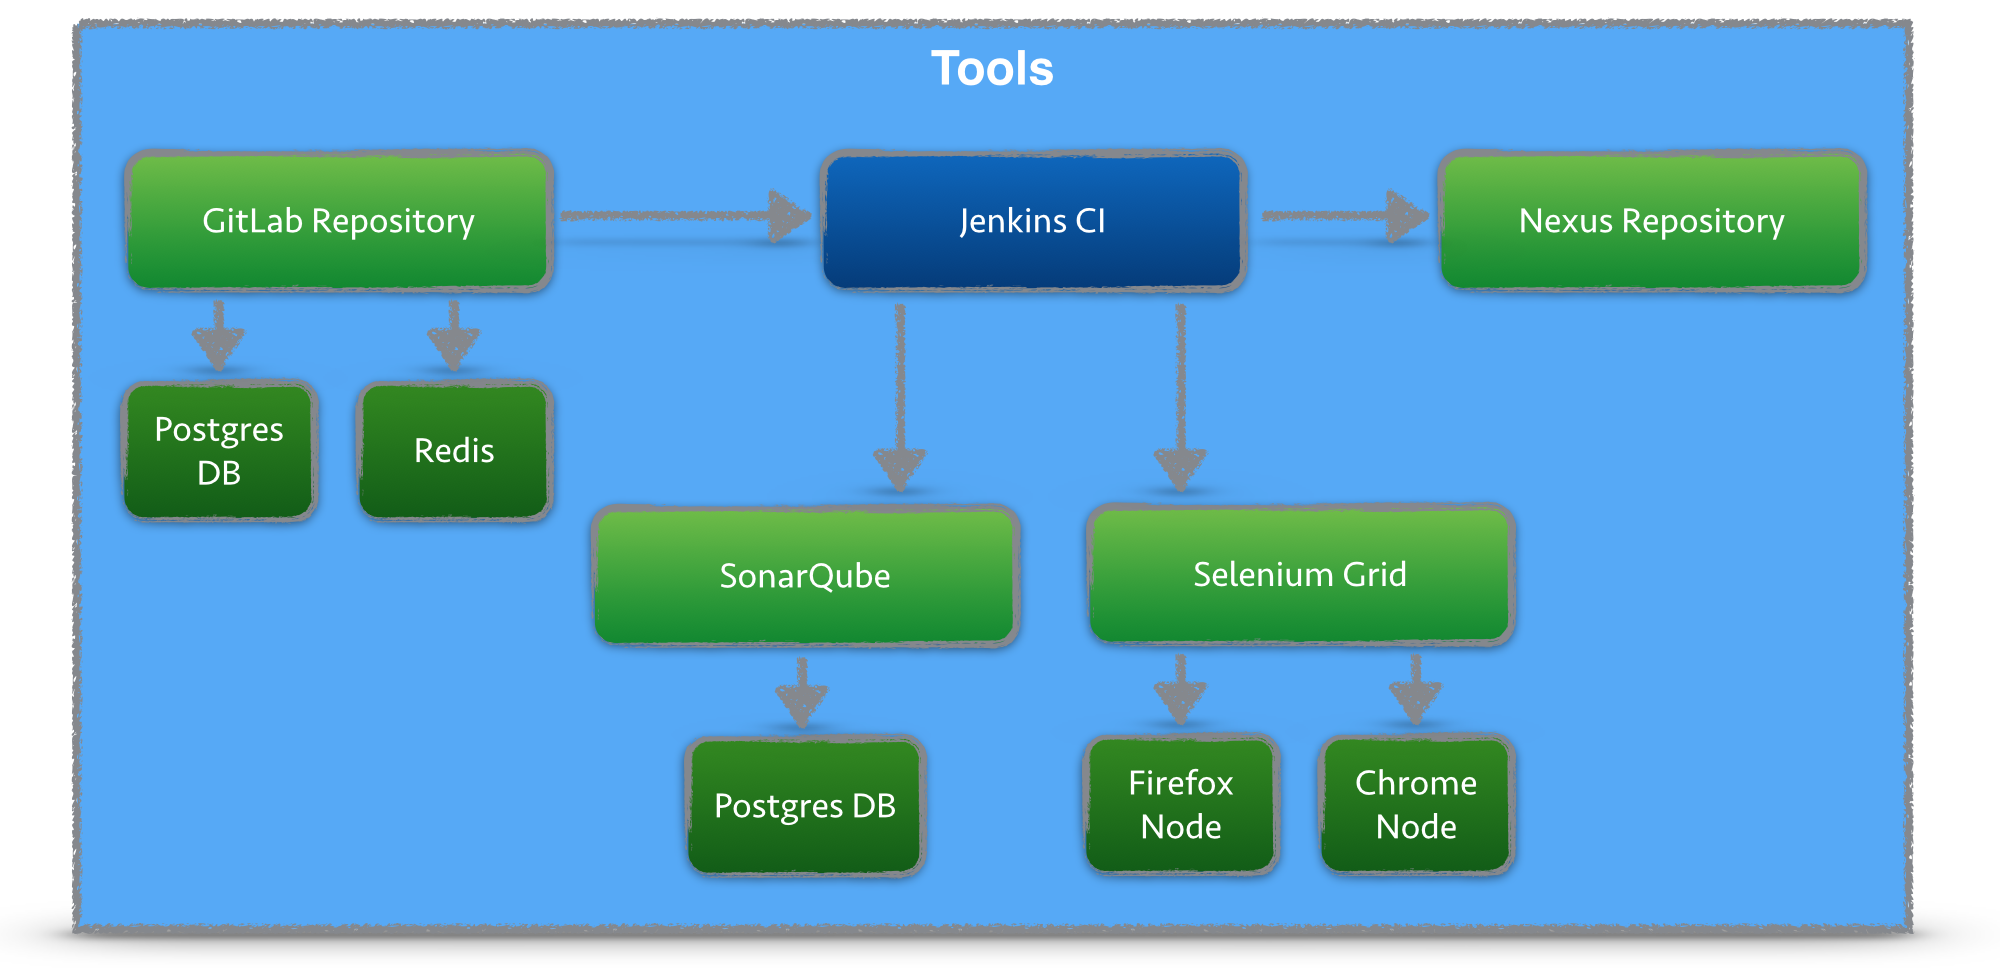
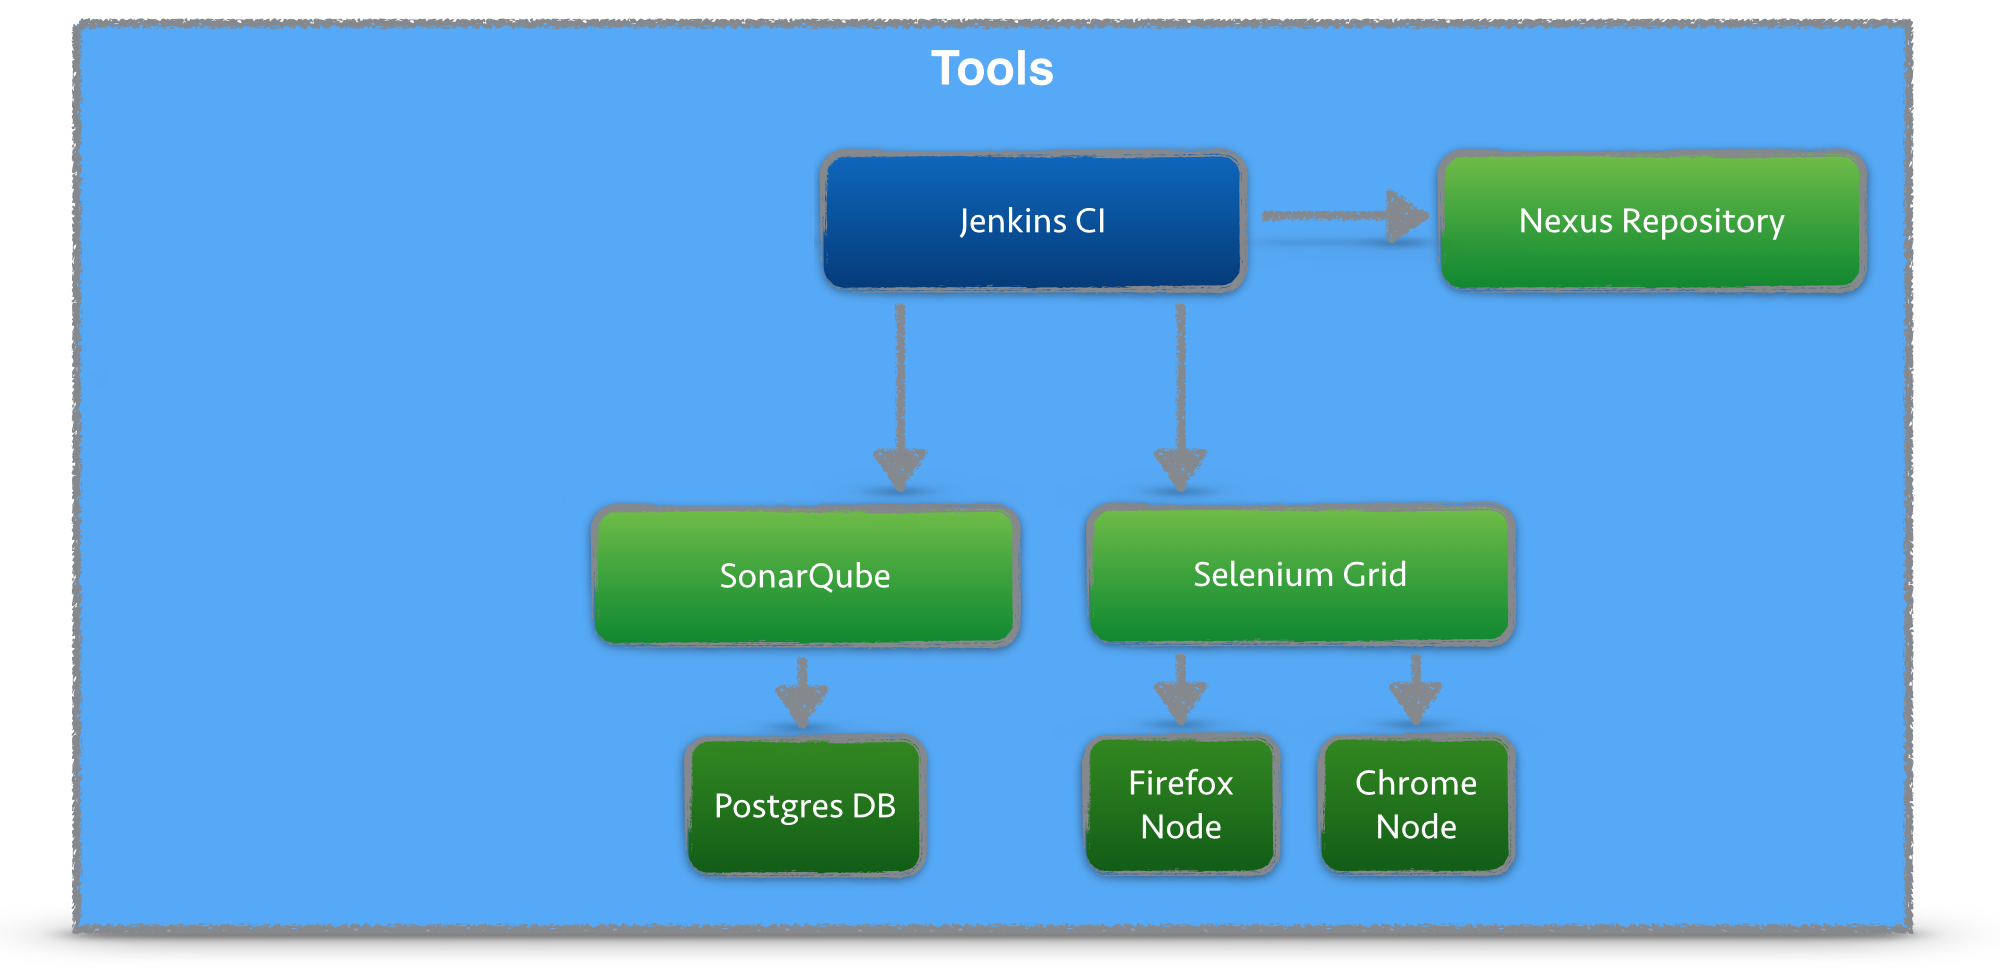
Removed GitLab

Changed region(s): [[0.031, 0.155, 0.403, 0.5579]]

diff --git a/README.md b/README.md
@@ -16,14 +16,12 @@ vagrant up
 | Jenkins | http://${docker-machine ip default}:8888/ | no login required |
 | SonarQube | http://${docker-machine ip default}:9000/ | admin/admin |
 | Nexus | http://${docker-machine ip default}:8181/ | admin/admin123 |
-| GitLab | http://${docker-machine ip default}:8000/ | root/5iveL!fe |
 | Selenium Grid | http://${docker-machine ip default}:4444/grid/console | no login required |
 
 ## Screenshots
 
 Here is an overview of all tools:
 
-- GitLab is used for storing the Source Code
 - Jenkins contains build job and is triggered once projects in GitLab are updated
 - As part of the CI build, Jenkins triggers a static code analysis and the results are stored in SonarQube
 - The Maven build uses Nexus as a Proxy Repository for all 3rd party libs. The build artifacts are deployed to the Nexus Release Repository
